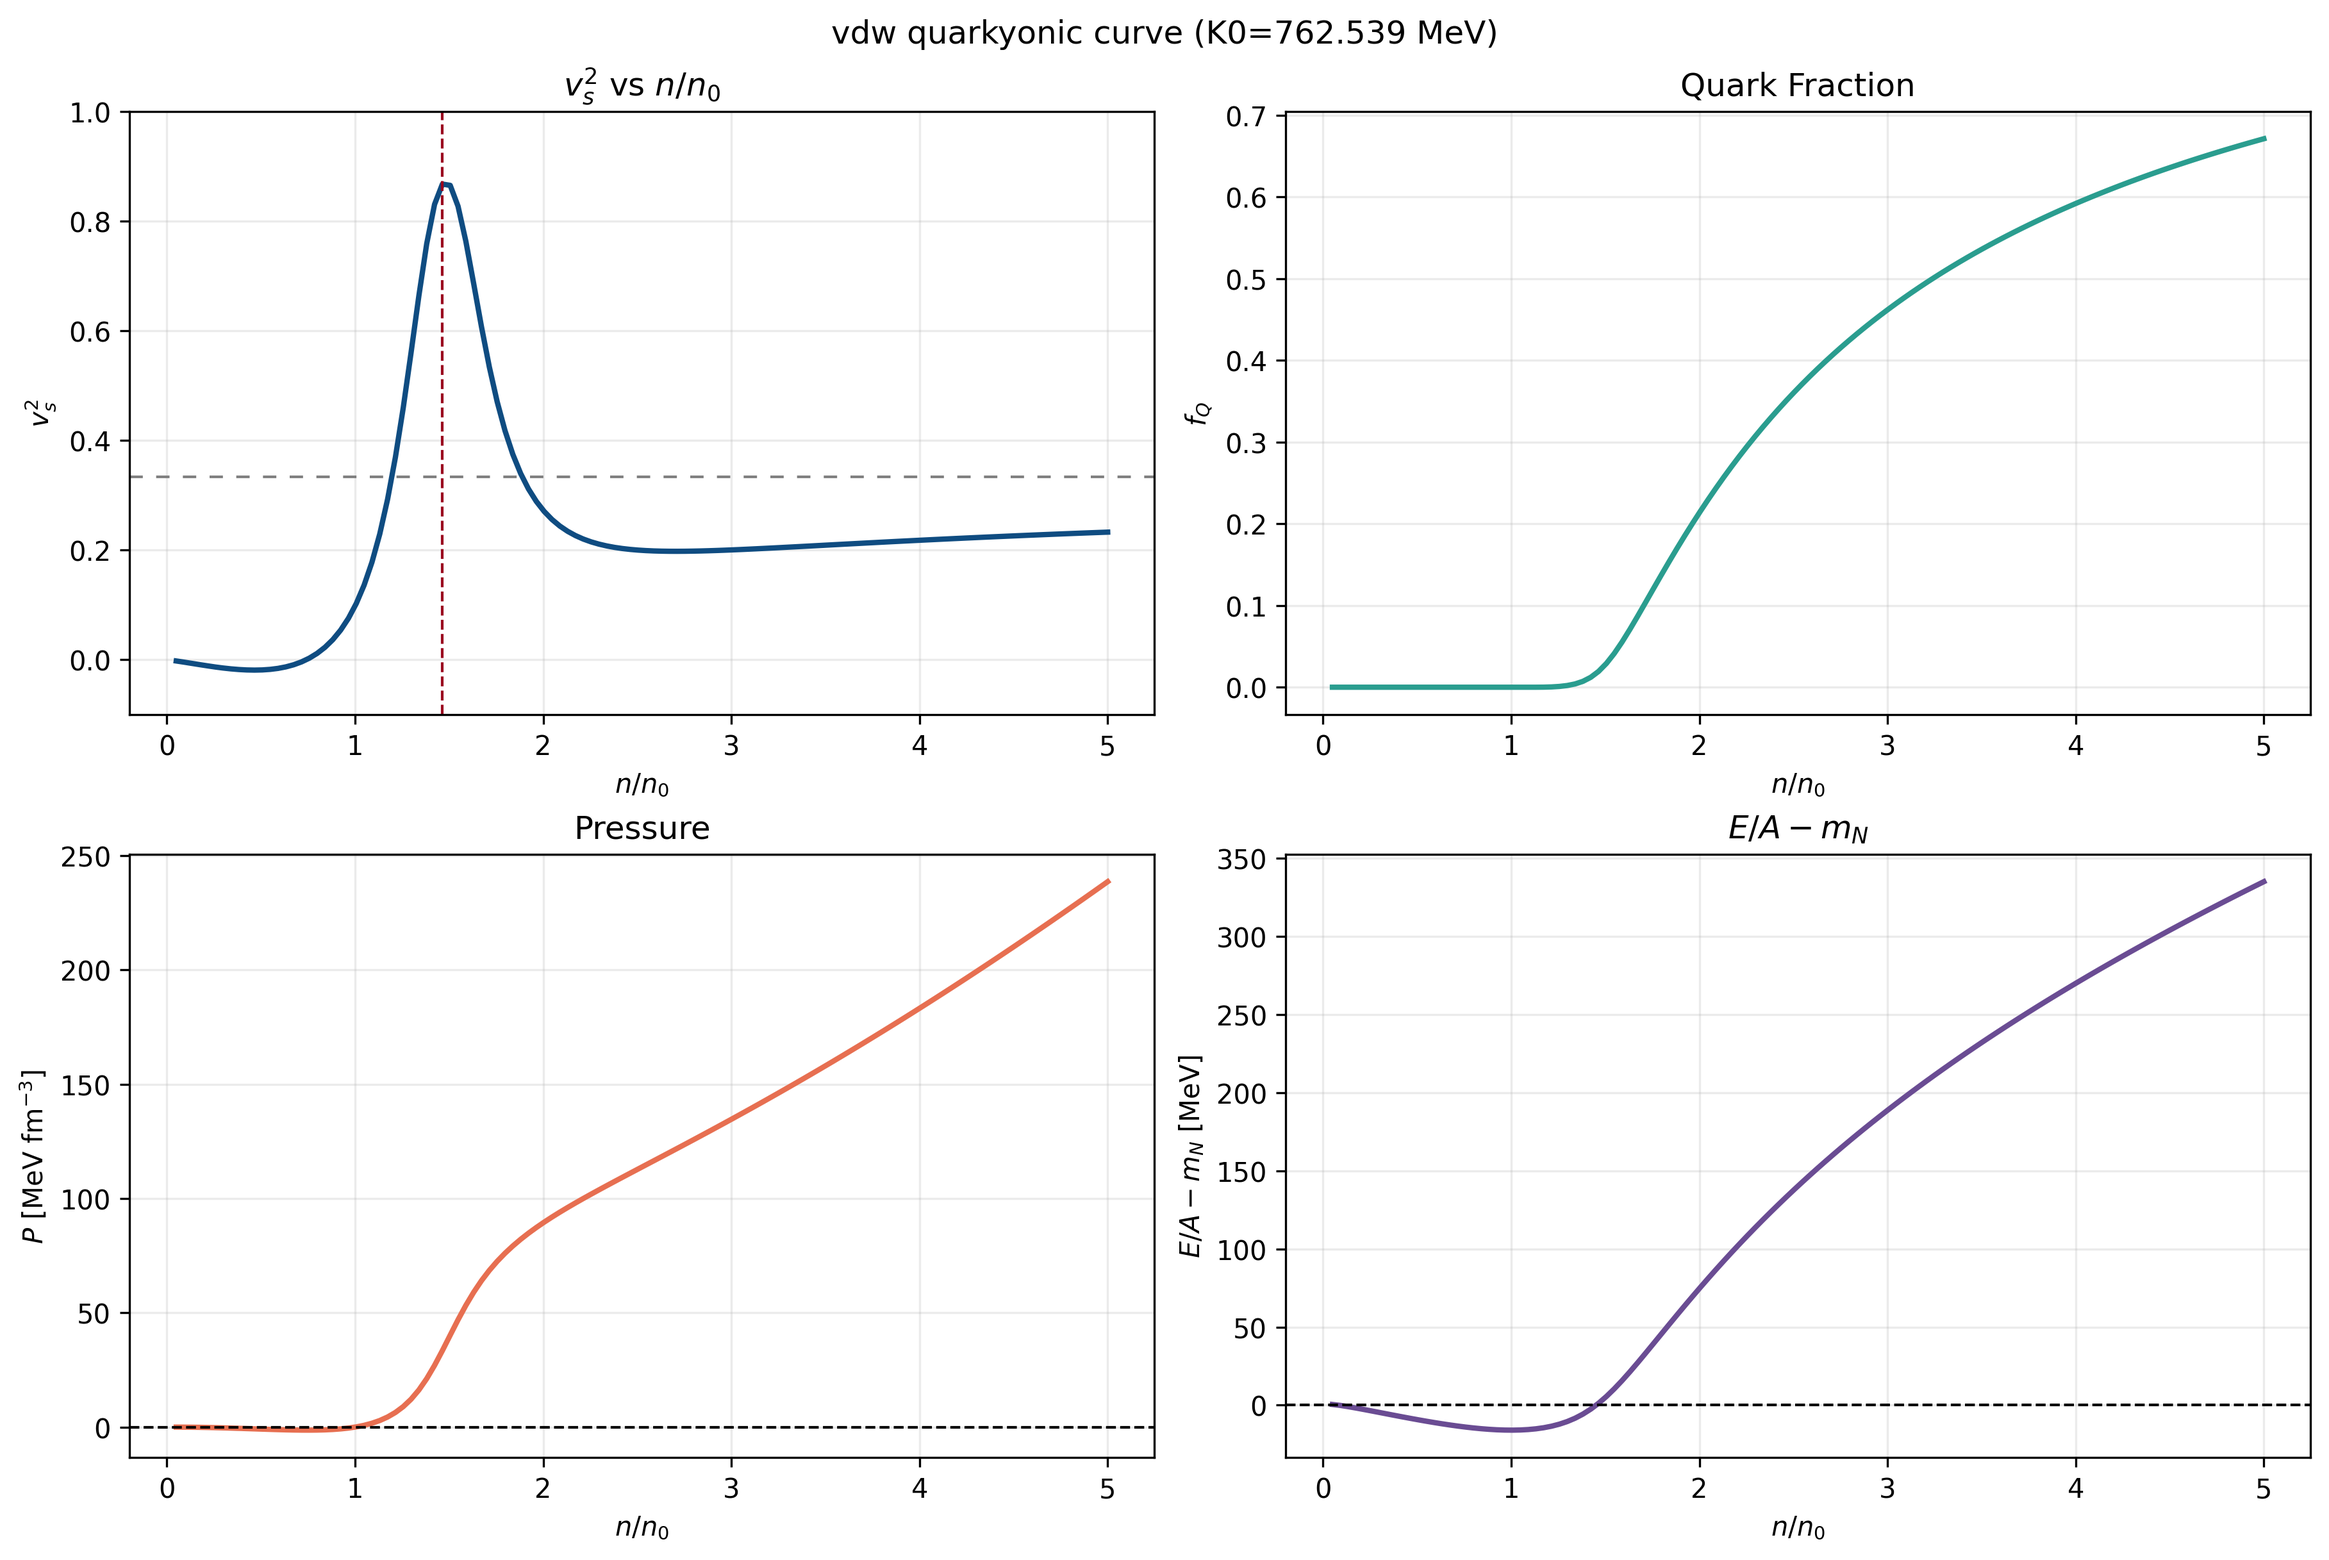
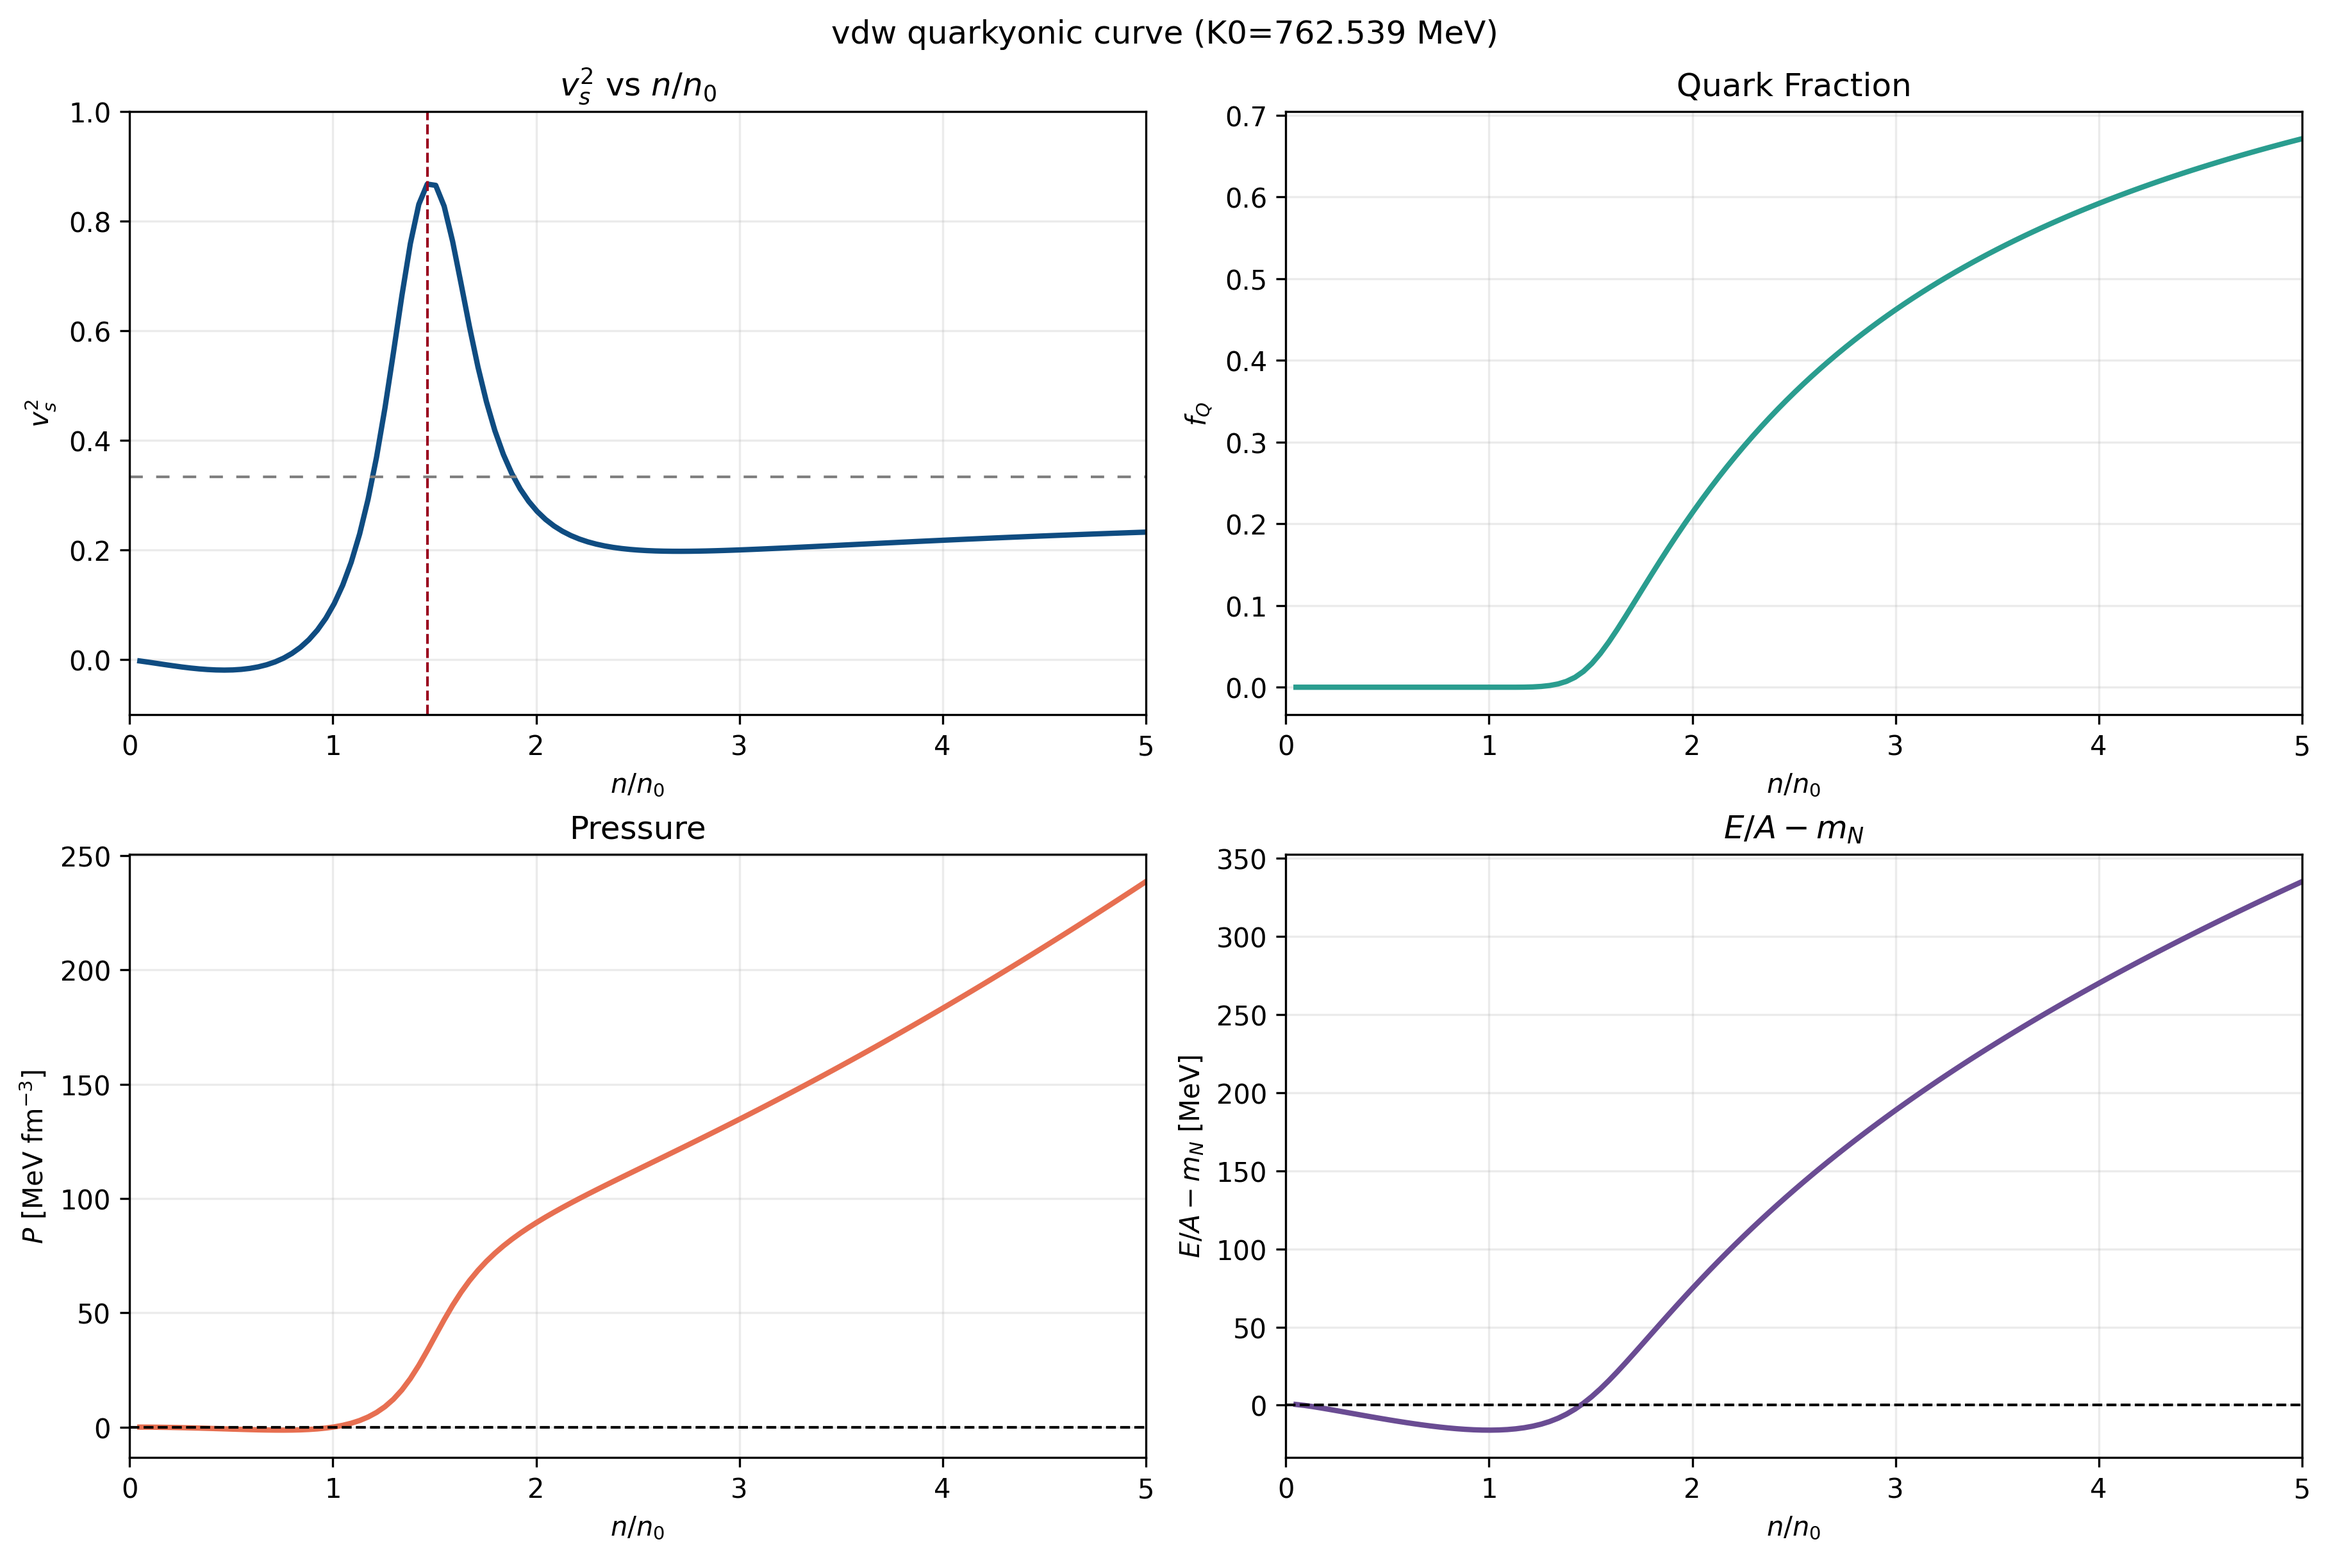
update

diff --git a/src/qmm/plotting.py b/src/qmm/plotting.py
@@ -129,7 +129,7 @@ def plot_ground_state_eos(
     axes[0].axvline(1.0, color="#5F0F40", lw=1.2, ls=":")
     axes[0].set_title("Hadronic Binding Curve")
     axes[0].set_xlabel(r"$n / n_0$")
-    axes[0].set_ylabel(r"$E/A - m_N$ [MeV]")
+    axes[0].set_ylabel(r"$\varepsilon / n_B - m_N$ [MeV]")
     axes[0].grid(alpha=0.25)
     axes[0].annotate(label, xy=(0.02, 0.03), xycoords="axes fraction", fontsize=9)
 
@@ -255,9 +255,9 @@ def plot_symmetric_quarkyonic_bundle(
 
     axes[1, 1].plot(curve.n_over_n0, energy_per_baryon, color="#6A4C93", lw=2.0)
     axes[1, 1].axhline(0.0, color="black", ls="--", lw=1.0)
-    axes[1, 1].set_title(r"$E/A - m_N$")
+    axes[1, 1].set_title(r"$\varepsilon / n_B - m_N$")
     axes[1, 1].set_xlabel(r"$n / n_0$")
-    axes[1, 1].set_ylabel(r"$E/A - m_N$ [MeV]")
+    axes[1, 1].set_ylabel(r"$\varepsilon / n_B - m_N$ [MeV]")
     axes[1, 1].set_xlim(0.0, 5.0)
     axes[1, 1].grid(alpha=0.25)
 
@@ -321,9 +321,9 @@ def plot_asymmetric_profiles(
     axes[1, 0].set_xlabel(r"$n / n_0$")
     axes[1, 0].set_ylabel(r"$P$ [MeV fm$^{-3}$]")
     axes[1, 0].set_xlim(0.0, 5.0)
-    axes[1, 1].set_title(r"$E/A - m_N$")
+    axes[1, 1].set_title(r"$\varepsilon / n_B - m_N$")
     axes[1, 1].set_xlabel(r"$n / n_0$")
-    axes[1, 1].set_ylabel(r"$E/A - m_N$ [MeV]")
+    axes[1, 1].set_ylabel(r"$\varepsilon / n_B - m_N$ [MeV]")
     axes[1, 1].set_xlim(0.0, 5.0)
 
     for axis in axes.flat:
